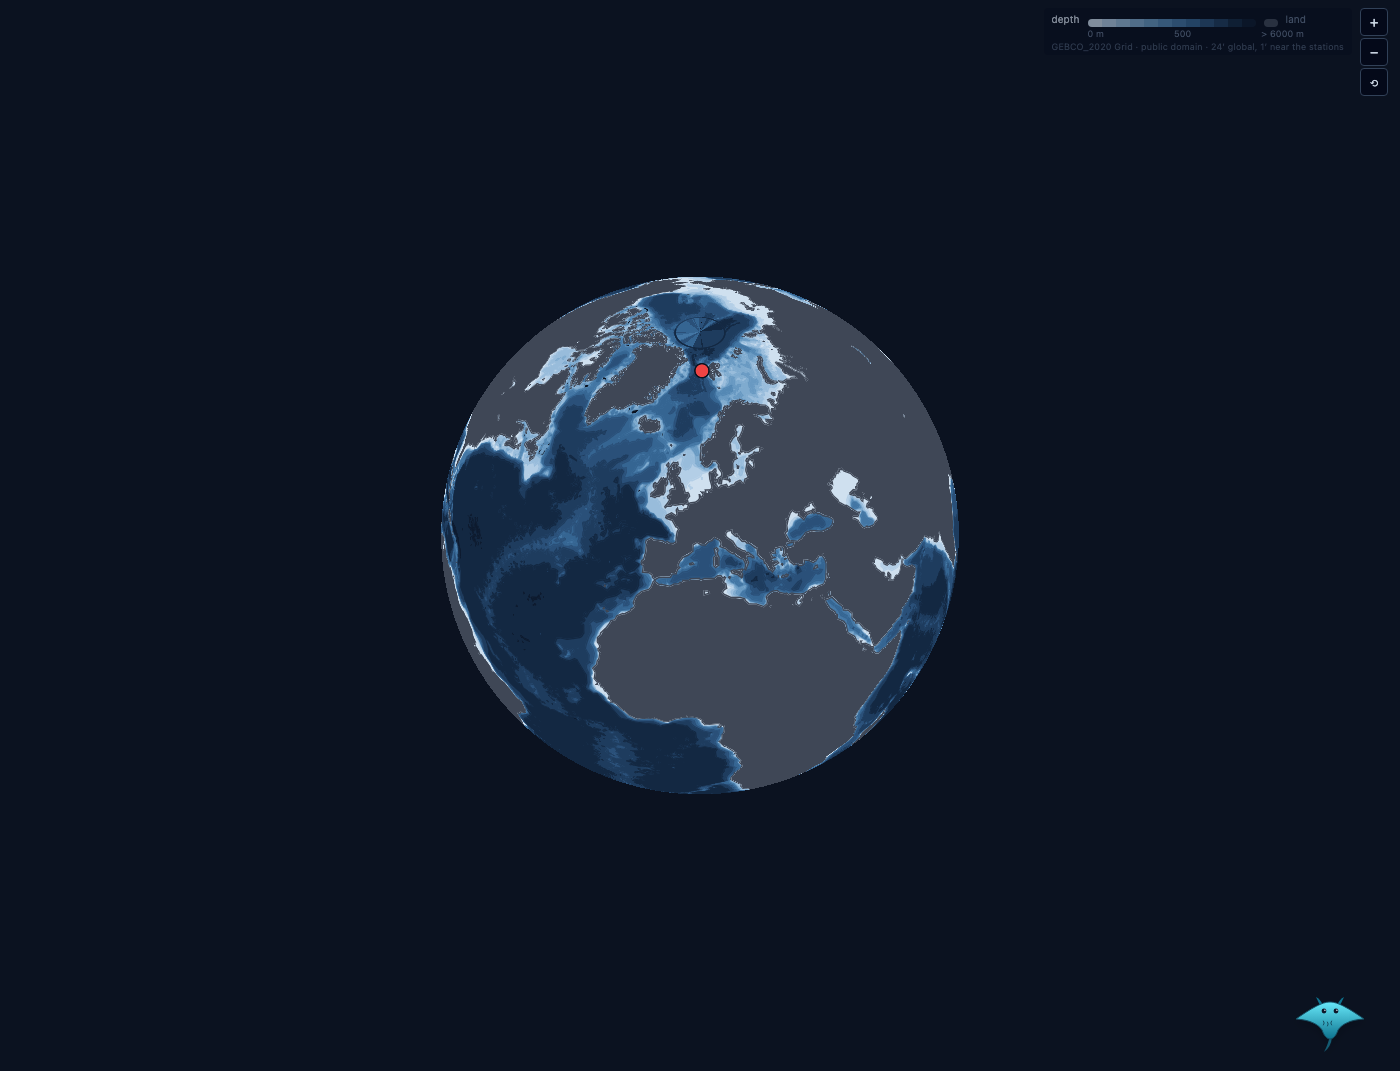
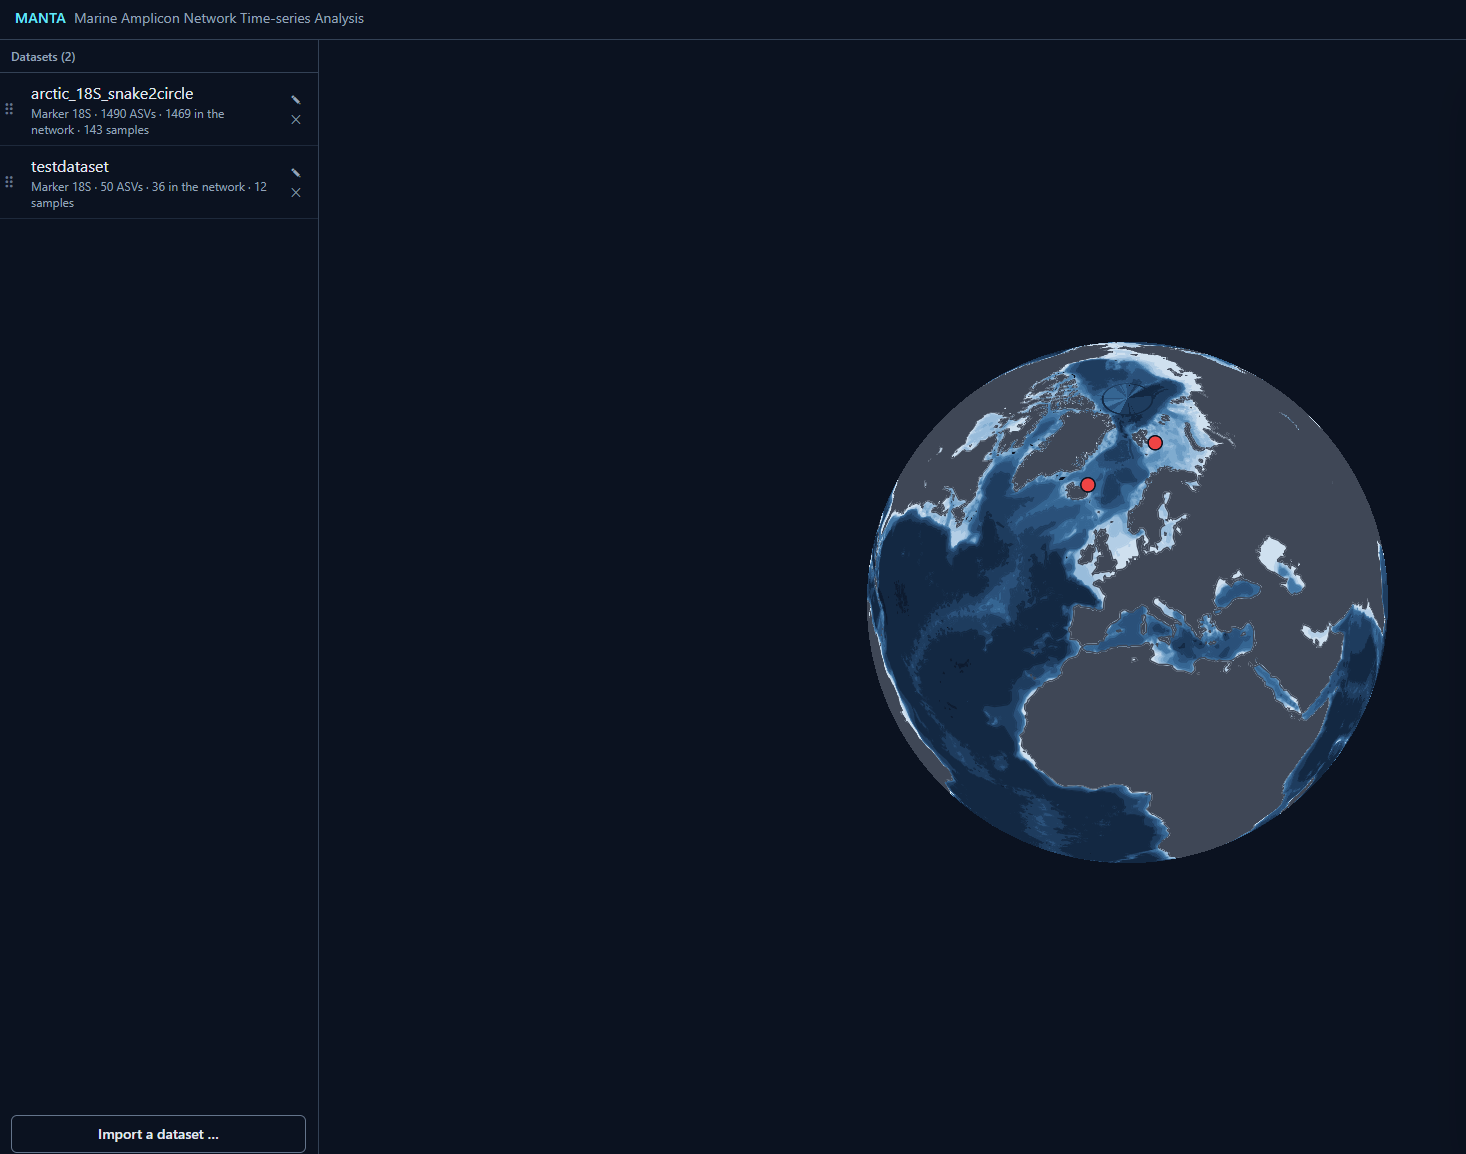
README: Quellen, Formulierungen und Screenshots überarbeiten (#8)
* README: Priest et al. 2025 genauer zuordnen

Claude-Session: https://claude.ai/code/session_01AkGjwgkzFcHzdsDvaRAXF5

* README: Einleitungssatz umformulieren

Claude-Session: https://claude.ai/code/session_01AkGjwgkzFcHzdsDvaRAXF5

* README: ASV-Definition korrigieren, Features-Texte kürzen

Claude-Session: https://claude.ai/code/session_01AkGjwgkzFcHzdsDvaRAXF5

* README: Netzwerk und Keystone-Kriterien nach #7 beschreiben

Claude-Session: https://claude.ai/code/session_01AkGjwgkzFcHzdsDvaRAXF5

* README: Schritt 2 installiert die Analysewerkzeuge

Claude-Session: https://claude.ai/code/session_01AkGjwgkzFcHzdsDvaRAXF5

* README: PR2-Taxonomie erklären

Claude-Session: https://claude.ai/code/session_01AkGjwgkzFcHzdsDvaRAXF5

* README: Durchsicht gegen den Code, Formulierungen präzisieren

Claude-Session: https://claude.ai/code/session_01AkGjwgkzFcHzdsDvaRAXF5

* README: PR2 genauer beschreiben, SILVA für 16S

Claude-Session: https://claude.ai/code/session_01AkGjwgkzFcHzdsDvaRAXF5

* README: Screenshots vom synthetischen Beispieldatensatz

Claude-Session: https://claude.ai/code/session_01AkGjwgkzFcHzdsDvaRAXF5

* README: Bildbeschreibung Netzwerk

Claude-Session: https://claude.ai/code/session_01AkGjwgkzFcHzdsDvaRAXF5

---------

diff --git a/README.md b/README.md
@@ -24,17 +24,18 @@ See which marine organisms occur together, and when in the year, in your browser
 
 <br>
 
-<img src="docs/images/network.png" alt="A dataset's network: modules in color, directed links, ASVs meeting criterion 2 highlighted" width="100%">
+<img src="docs/images/network.png" alt="A dataset's network: ASVs colored by module, joined by links" width="100%">
 
 </div>
 
 <br>
 
-You took water samples at the same place many times and sequenced a marker gene (16S or 18S)
-in each. MANTA turns those sequences into pictures you can explore: where the samples come
-from, which organisms appear together, and in which season they peak.
+MANTA is for amplicon time series: samples taken at the same place again and again, each
+sequenced for a marker gene (16S or 18S). It turns these sequences into explorable networks and
+shows where the samples come from, which organisms occur together, and in which season they
+peak.
 
-MANTA does not invent new statistics. It runs two established tools for you:
+MANTA builds on two established tools and runs them for you:
 
 ```mermaid
 flowchart LR
@@ -44,11 +45,11 @@ flowchart LR
     D --> E[Browser]
 ```
 
-- **DADA2** turns raw sequencing reads into **ASVs**: exact DNA sequences, each standing for
-  one kind of organism, with a count per sample.
+- **DADA2** turns raw sequencing reads into **ASVs** (amplicon sequence variants): exact DNA
+  sequences with a count per sample. Several ASVs can belong to the same organism.
 - **OTTER** finds which ASVs rise and fall together and groups them into **modules**.
 
-MANTA saves every result in a database and shows it in the browser. Every number you see comes
+MANTA saves every result in a database and shows it in the browser. Every number comes
 from one of these runs or is calculated directly from it, such as a monthly mean or the day
 length at the sampling site.
 
@@ -56,29 +57,35 @@ length at the sampling site.
 
 <table>
 <tr>
-<td width="33%" valign="top"><b>A world map</b> with all your datasets and the water depth.<br><img src="docs/images/map.png" alt="World map with datasets and water depth"></td>
-<td width="33%" valign="top"><b>A page per ASV</b> with its name, its abundance over time and its closest partners.<br><img src="docs/images/asv.png" alt="The detail page of one ASV"></td>
-<td width="33%" valign="top"><b>A year wheel</b> that shows when each module peaks, next to daylight and temperature.<br><img src="docs/images/wheel.png" alt="The year wheel with module windows and a temperature band"></td>
+<td width="33%" valign="top"><b>A world map</b> with all your datasets.<br><img src="docs/images/map.png" alt="World map with datasets and water depth"></td>
+<td width="33%" valign="top"><b>A page per ASV</b> with its taxon name, its abundance over time and its closest partners.<br><img src="docs/images/asv.png" alt="The detail page of one ASV"></td>
+<td width="33%" valign="top"><b>A year wheel</b> that shows when each module peaks.<br><img src="docs/images/wheel.png" alt="The year wheel with module windows and a temperature band"></td>
 </tr>
 </table>
 
 You can also:
 
-- see the network of which ASVs occur together and which seem to influence others;
-- see which ASVs are unusually central in their module (one of three criteria for a keystone
-  species in Oldenburg et al. 2024; on its own it does not make an ASV a keystone);
-- filter by module, organism name or function, and share the exact view as a link;
+- see the co-occurrence network: a line joins two ASVs whose abundances rise and fall together,
+  and an arrow shows that one ASV significantly influences the other (convergent cross mapping,
+  CCM);
+- mark possible keystone ASVs (✦) by choosing the keystone criteria of Oldenburg et al. 2024 in
+  the sidebar: 1, a significant CCM link; 2, an unusually high closeness within its module.
+  The third criterion (a stable state from ELA) is not available, so a marked ASV is a
+  candidate, not a proven keystone;
+- filter by module, taxon name or function, and share the exact view as a link;
 - compare ASVs, modules and measurements over the year;
 - ask an optional chat assistant, which answers only from your stored results and marks any
   number it cannot back up with `[no evidence]`. Its tools also work in other AI apps that
   support MCP (`apps/manta_mcp/start_mcp.sh`).
 
-The screenshots show the HAUSGARTEN F4 example data from OTTER, which is not included here.
+The screenshots show the made-up example dataset `examples/synthetic_12_samples`.
 
 ## Installation
 
 Installation has two steps. Step 1 starts MANTA so you can look at data. Step 2 installs the
-import so you can add data; you need it for every dataset, including the example.
+analysis tools (OTTER as a Git submodule, plus the Python environments that prepare its input
+and save its results) and the import page in the browser. You need step 2 for every dataset,
+including the example.
 
 You need [Docker](https://docs.docker.com/get-started/get-docker/) with Compose and
 [Git](https://git-scm.com/downloads). For step 2 you also need
@@ -152,9 +159,9 @@ models.
 MANTA uses the ports 8080, 8443, 7474 and 7687 (and 11434 for the assistant). If one is taken,
 change it in `deploy/.env`. The database's usage reporting is switched off.
 
-### Step 2: Install the import
+### Step 2: Install the analysis tools and the import
 
-1. Install the import tools. This takes a while. If a line fails, the block stops; fix the
+1. Install the analysis tools. This takes a while. If a line fails, the block stops; fix the
    problem and run the whole block again. Don't use `sudo` here.
    ```bash
    cd ~/manta &&
@@ -187,12 +194,12 @@ change it in `deploy/.env`. The database's usage reporting is switched off.
    also appears at <http://localhost:8080>.
 
 After restarting your computer, run `cd ~/manta && bash apps/manta_web/dev.sh start` again (on
-Windows, start Docker Desktop first). Instead of `start`, the same script also takes `stop`,
-`restart`, `status` and `logs`. `stop --db` also stops the database, so
+Windows, start Docker Desktop first). Besides `start`, the script knows `stop`, `restart`,
+`status` and `logs`. `stop --db` also stops the database, so
 <http://localhost:8080> then shows no data. The import uses the ports 8000 and 5173; to change
 them, set `MANTA_BACKEND_PORT` and `MANTA_FRONTEND_PORT`.
 
-### Optional: raw reads, organism names, chat assistant
+### Optional: raw reads, taxonomy for raw reads, chat assistant
 
 **Raw sequencing reads (FASTQ).** To import raw reads, install DADA2:
 
@@ -206,9 +213,17 @@ password before installing R. On Ubuntu it takes 10 to 30 minutes. With `--check
 what is missing. The versions are fixed on purpose, because other versions can turn the same
 reads into different ASVs.
 
-**Organism names.** Download a [PR2 file](https://github.com/pr2database/pr2database/releases)
-in DADA2 format, set `MANTA_PR2=<path to the file>` in `apps/manta_web/backend/.env` and run
-`bash apps/manta_web/dev.sh restart`. Without it, ASVs from raw reads stay `unassigned`.
+**Taxonomy for raw reads.** PR2 is a reference database of known 18S rRNA sequences, mostly
+from protists (single-celled eukaryotes). When MANTA runs DADA2 on raw reads, DADA2 compares each
+ASV with this reference and assigns it a taxon name (from kingdom down to species, as far as the
+match allows). For 16S data, a SILVA reference in the same DADA2 format works too. You only need
+a reference for raw reads; if you import DADA2 results, your taxonomy table already has the
+names. Download the PR2 file in DADA2 format from the
+[PR2 releases](https://github.com/pr2database/pr2database/releases), set
+`MANTA_PR2=<path to the file>` in `apps/manta_web/backend/.env` and run
+`bash apps/manta_web/dev.sh restart`. Without it, the import still works, but ASVs from raw reads
+stay `unassigned`. (The function filter uses its own copy of PR2's tables, which step 2 already
+downloads.)
 
 **Chat assistant.** Switch it on with:
 
@@ -241,8 +256,8 @@ your files.
    map, also enter a latitude and longitude.
 4. Click **Start import**.
 
-A card shows the progress. You can close the page; the import keeps running. It takes from
-minutes to hours, mostly for OTTER. When it is done, the dataset appears in the list.
+A card shows the progress. You can close the page; the import keeps running. It takes minutes
+to hours; most of that time goes to OTTER. When it is done, the dataset appears in the list.
 
 ### Which files you can import
 
@@ -250,7 +265,7 @@ minutes to hours, mostly for OTTER. When it is done, the dataset appears in the 
   `…_R2_001.fastq.gz`. MANTA runs DADA2 and then OTTER. This needs DADA2 from the optional
   section above.
 - **DADA2 results:** an abundance table, a taxonomy table and the ASV sequences, as `.Rdata`,
-  `.csv` or `.fasta` files. You can also use OTTER's input tables `abundance.csv`,
+  `.csv` or `.fa`/`.fasta` files. You can also use OTTER's input tables `abundance.csv`,
   `taxa_info.csv` and `environment_info.csv`. MANTA runs OTTER.
 - **OTTER results:** OTTER's network tables, plus `abundance.csv` and `environment_info.csv`
   (and `manta_manifest.json`, if you have it). MANTA only saves them.
@@ -270,12 +285,12 @@ measurements. Without dates, MANTA only knows the order of the samples and shows
 Read tracking (DADA2's table of how many reads each sample kept) is optional. If you add it,
 MANTA checks that no sample lost too many reads.
 
-A dataset needs at least 8 samples. Before starting, MANTA checks whether your computer has
+A dataset needs at least 8 samples. Before OTTER starts, MANTA checks whether your computer has
 enough memory. DADA2 can take hours and needs a lot of memory; on a computer with 8 GB, run
 DADA2 elsewhere and import its results.
 
-At the end, MANTA looks up each organism name in published tables of what such organisms do.
-This fills the function filter; it describes the name, it is not a measurement. If there are
+At the end, MANTA looks up the taxon name of each ASV in published tables of what such organisms
+do. This fills the function filter; it describes the name, it is not a measurement. If there are
 dates, MANTA also links the measurements to the ASVs.
 
 If you recalculate a network in MANTA, it creates a new dataset and leaves the original as it is.
@@ -303,7 +318,8 @@ cd ~/manta && bash update.sh
 This downloads the newest version, installs only what changed and restarts MANTA. Your data
 stay. Docker must be running.
 
-**Don't update while an import is running.** The update restarts the import and stops it.
+**Don't update while an import is running.** The update restarts the import page, which stops
+a running import.
 
 If you changed files in `~/manta` yourself, the update stops instead of overwriting them.
 `bash update.sh --check` only tells you whether an update exists (exit code `10` means yes, `0`
@@ -330,7 +346,7 @@ in `~/manta`, and start the import as in step 2. When everything works, delete `
 ### Backup
 
 `bash deploy/backup.sh` saves the database and the accounts from step 1 to `deploy/backups/`.
-MANTA is unavailable for about 20 seconds meanwhile. To restore, run
+MANTA pauses for about 20 seconds while it runs. To restore, run
 `bash deploy/restore.sh <neo4j-*.dump> [auth-*.db]`. Both explain their options with `--help`.
 
 ## Troubleshooting
@@ -433,23 +449,26 @@ downloads them from their original sources.
   [doi:10.5281/zenodo.15149453](https://doi.org/10.5281/zenodo.15149453), CC BY 4.0); for 16S:
   FAPROTAX 1.2.12 (Louca et al. 2016, *Science* 353:1272, [doi:10.1126/science.aaf4507](https://doi.org/10.1126/science.aaf4507);
   own license, included in the download). Downloads are checked against fixed checksums.
-- **Screenshots** — HAUSGARTEN F4 from OTTER's test data; Oldenburg et al. 2024, *Commun Earth
-  Environ* 5:643, [doi:10.1038/s43247-024-01782-0](https://doi.org/10.1038/s43247-024-01782-0).
-- **Example datasets** — synthetic, made for MANTA; MIT License.
+- **Example datasets and screenshots** — synthetic, made for MANTA; MIT License.
 
 **Methods**
 
-- Network terms — Oldenburg et al. 2024 (above).
-- Recurrence and modules (peak window, annual oscillation, year-to-year variability of modules) —
-  Priest et al. 2025, *Nat Commun* 16:1326, [doi:10.1038/s41467-025-56203-3](https://doi.org/10.1038/s41467-025-56203-3).
-- Criterion 2 of the keystone definition — Oldenburg et al. 2024 (above), Methods "Keystone
-  species definition": "a high centrality (closeness) value within its co-occurrence community".
-  MANTA computes it on the undirected co-occurrence network: closeness within the module
-  subgraph (all members, all links with both ends in the module), unweighted (n − 1)/Σd; per ASV a
-  one-sided one-sample t-test of the module's closeness values against its own
-  (`scipy.stats.ttest_1samp(…, popmean=c_i, alternative='less')`); Benjamini–Hochberg over all
-  testable network ASVs, q ≤ 0.05. This is a selection step, not a keystone: criteria 1 and 3 are
-  not tested.
+- Network terms — Oldenburg et al. 2024, *Commun Earth Environ* 5:643,
+  [doi:10.1038/s43247-024-01782-0](https://doi.org/10.1038/s43247-024-01782-0).
+- Seasonal recurrence and modules — Priest et al. 2025, *Nat Commun* 16:1326,
+  [doi:10.1038/s41467-025-56203-3](https://doi.org/10.1038/s41467-025-56203-3). The paper measures
+  annual oscillation and peak timing per ASV and year-to-year differences per community; MANTA's
+  peak window and year-to-year variability per module build on these ideas but are its own.
+- Keystone criteria — Oldenburg et al. 2024 (above), Methods "Keystone species definition": (1)
+  "a significant influence on other ASV in the network", (2) "a high centrality (closeness)
+  value within its co-occurrence community", (3) "presence in at least one stable state as
+  predicted by ELA". For criterion 1, MANTA marks every ASV at either end of a link with a
+  significant CCM direction. For criterion 2, MANTA works on the undirected co-occurrence
+  network: closeness within the module subgraph (all members, all links with both ends in the
+  module), unweighted (n − 1)/Σd; per ASV a one-sided one-sample t-test of the module's
+  closeness values against its own (`scipy.stats.ttest_1samp(…, popmean=c_i,
+  alternative='less')`); Benjamini–Hochberg over all testable network ASVs, q ≤ 0.05. Criterion
+  3 is not tested, so marked ASVs are candidates, not keystones.
 
 <br>
 
